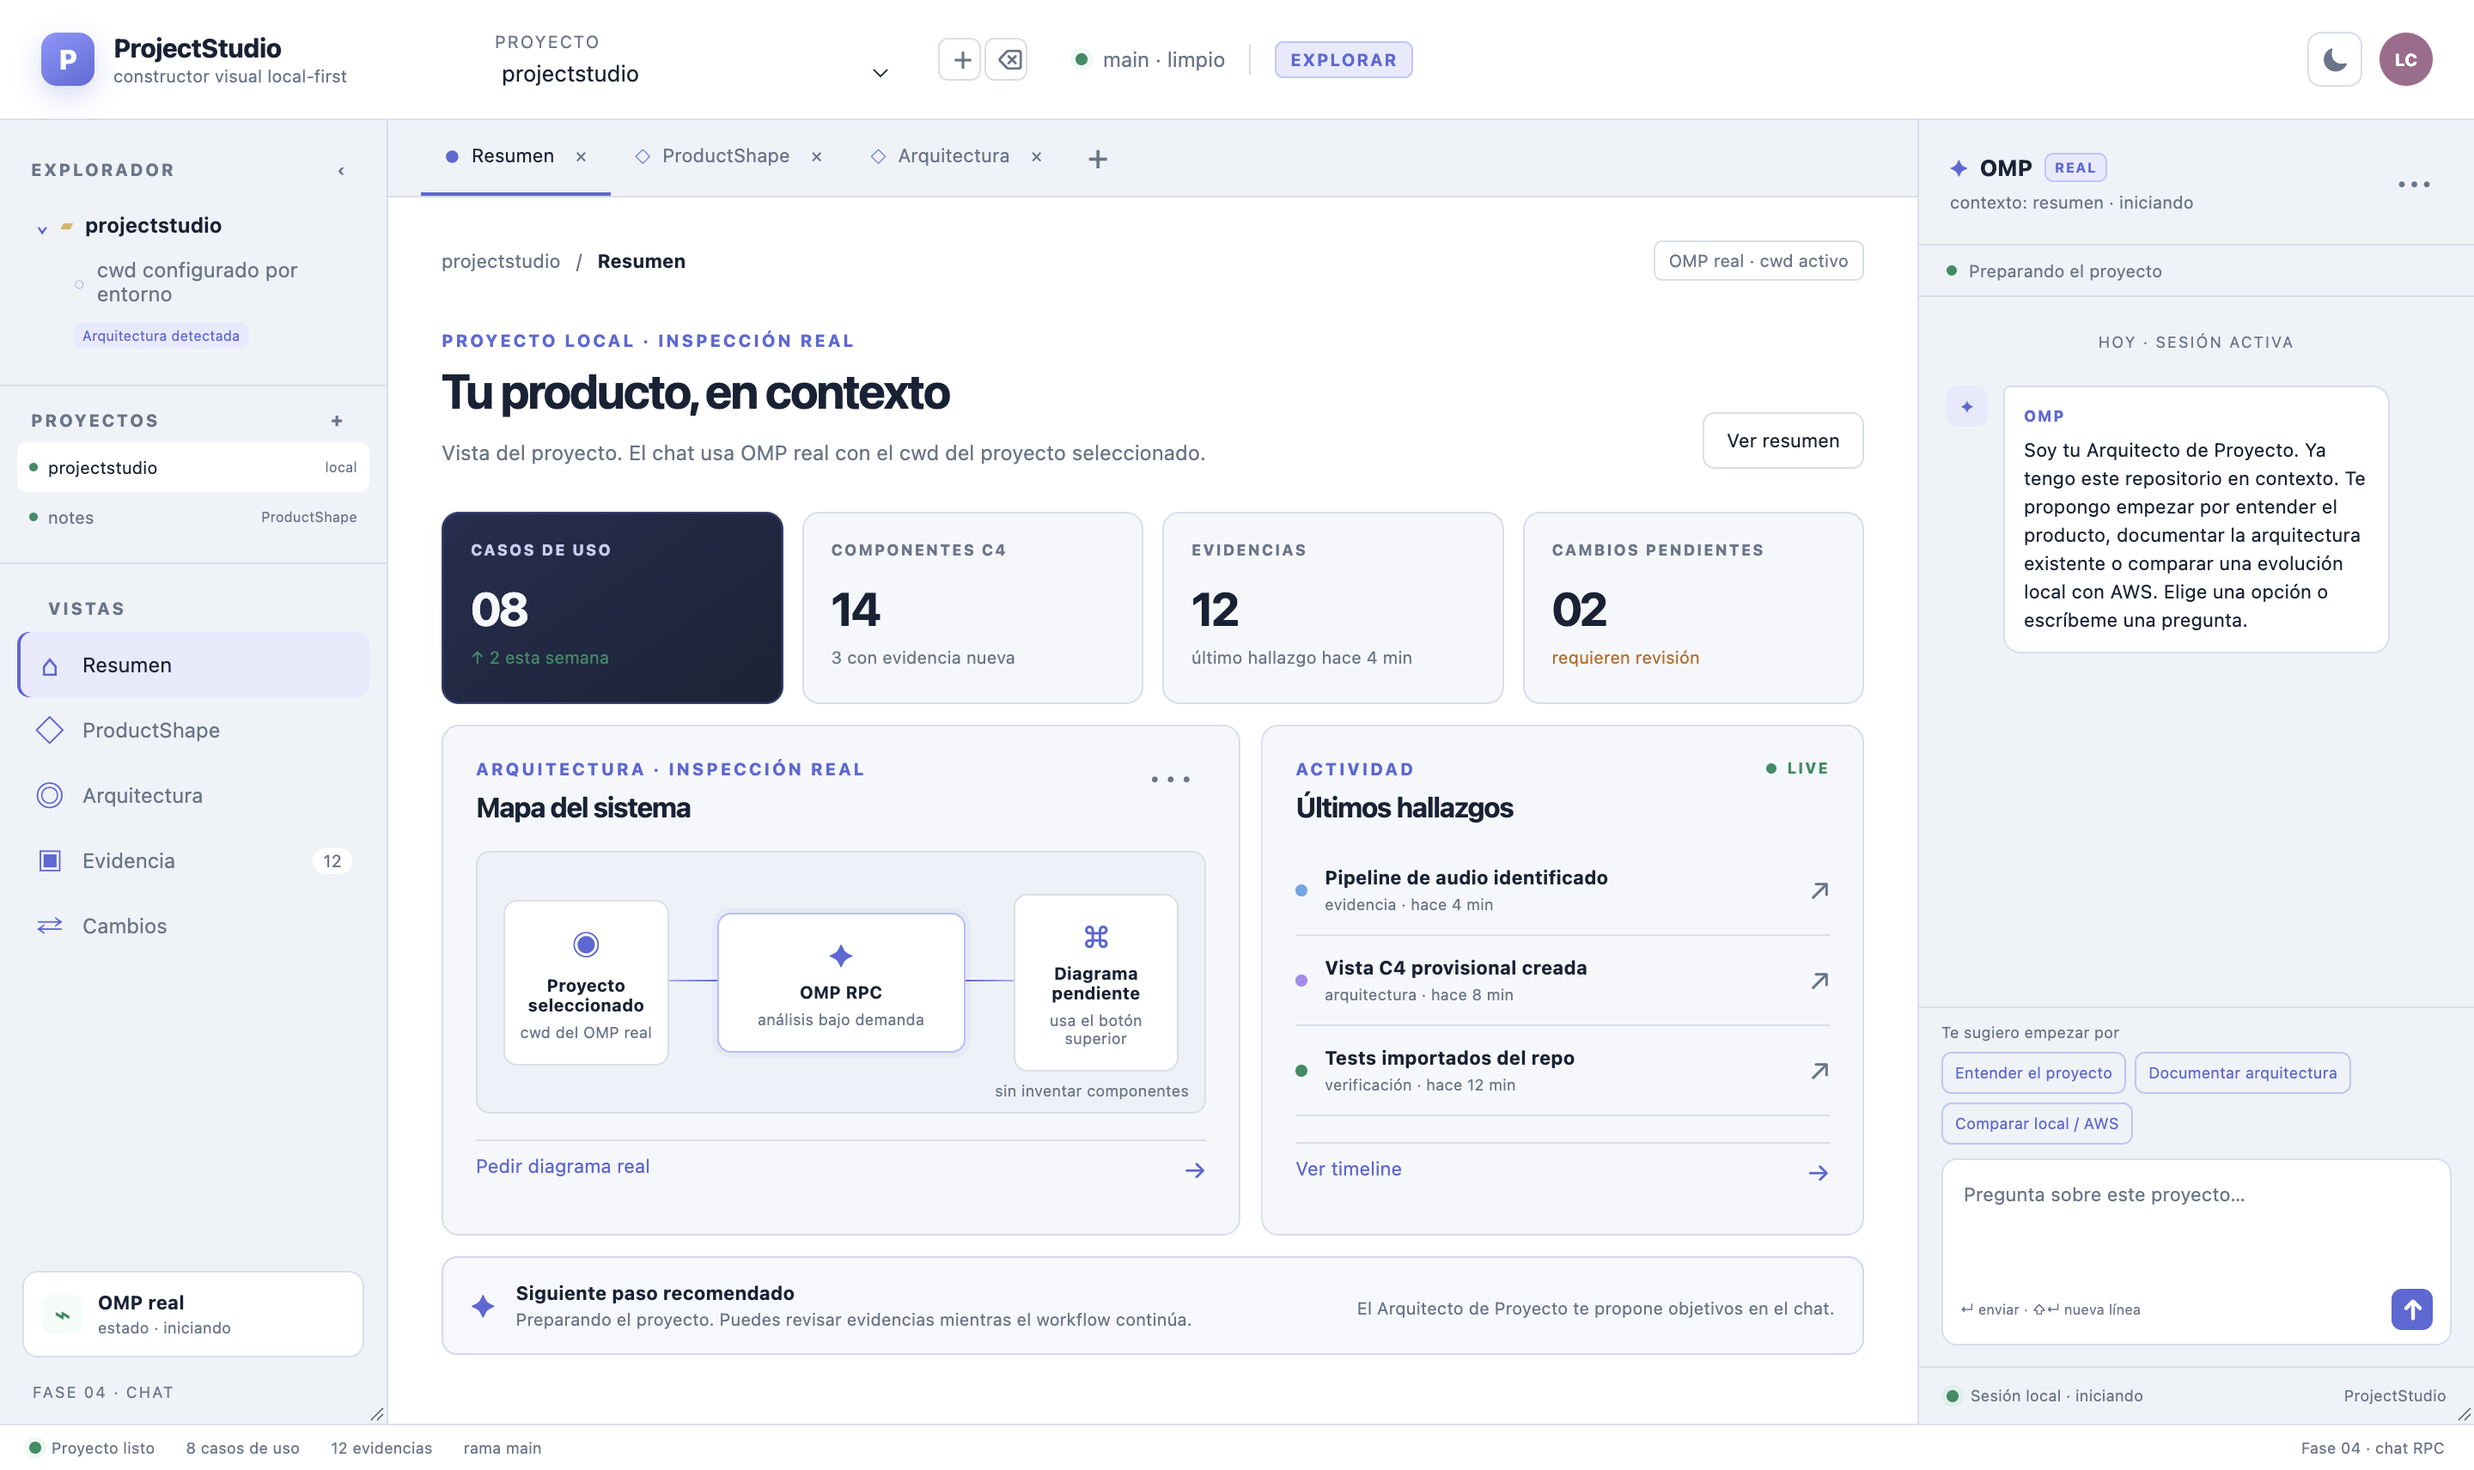
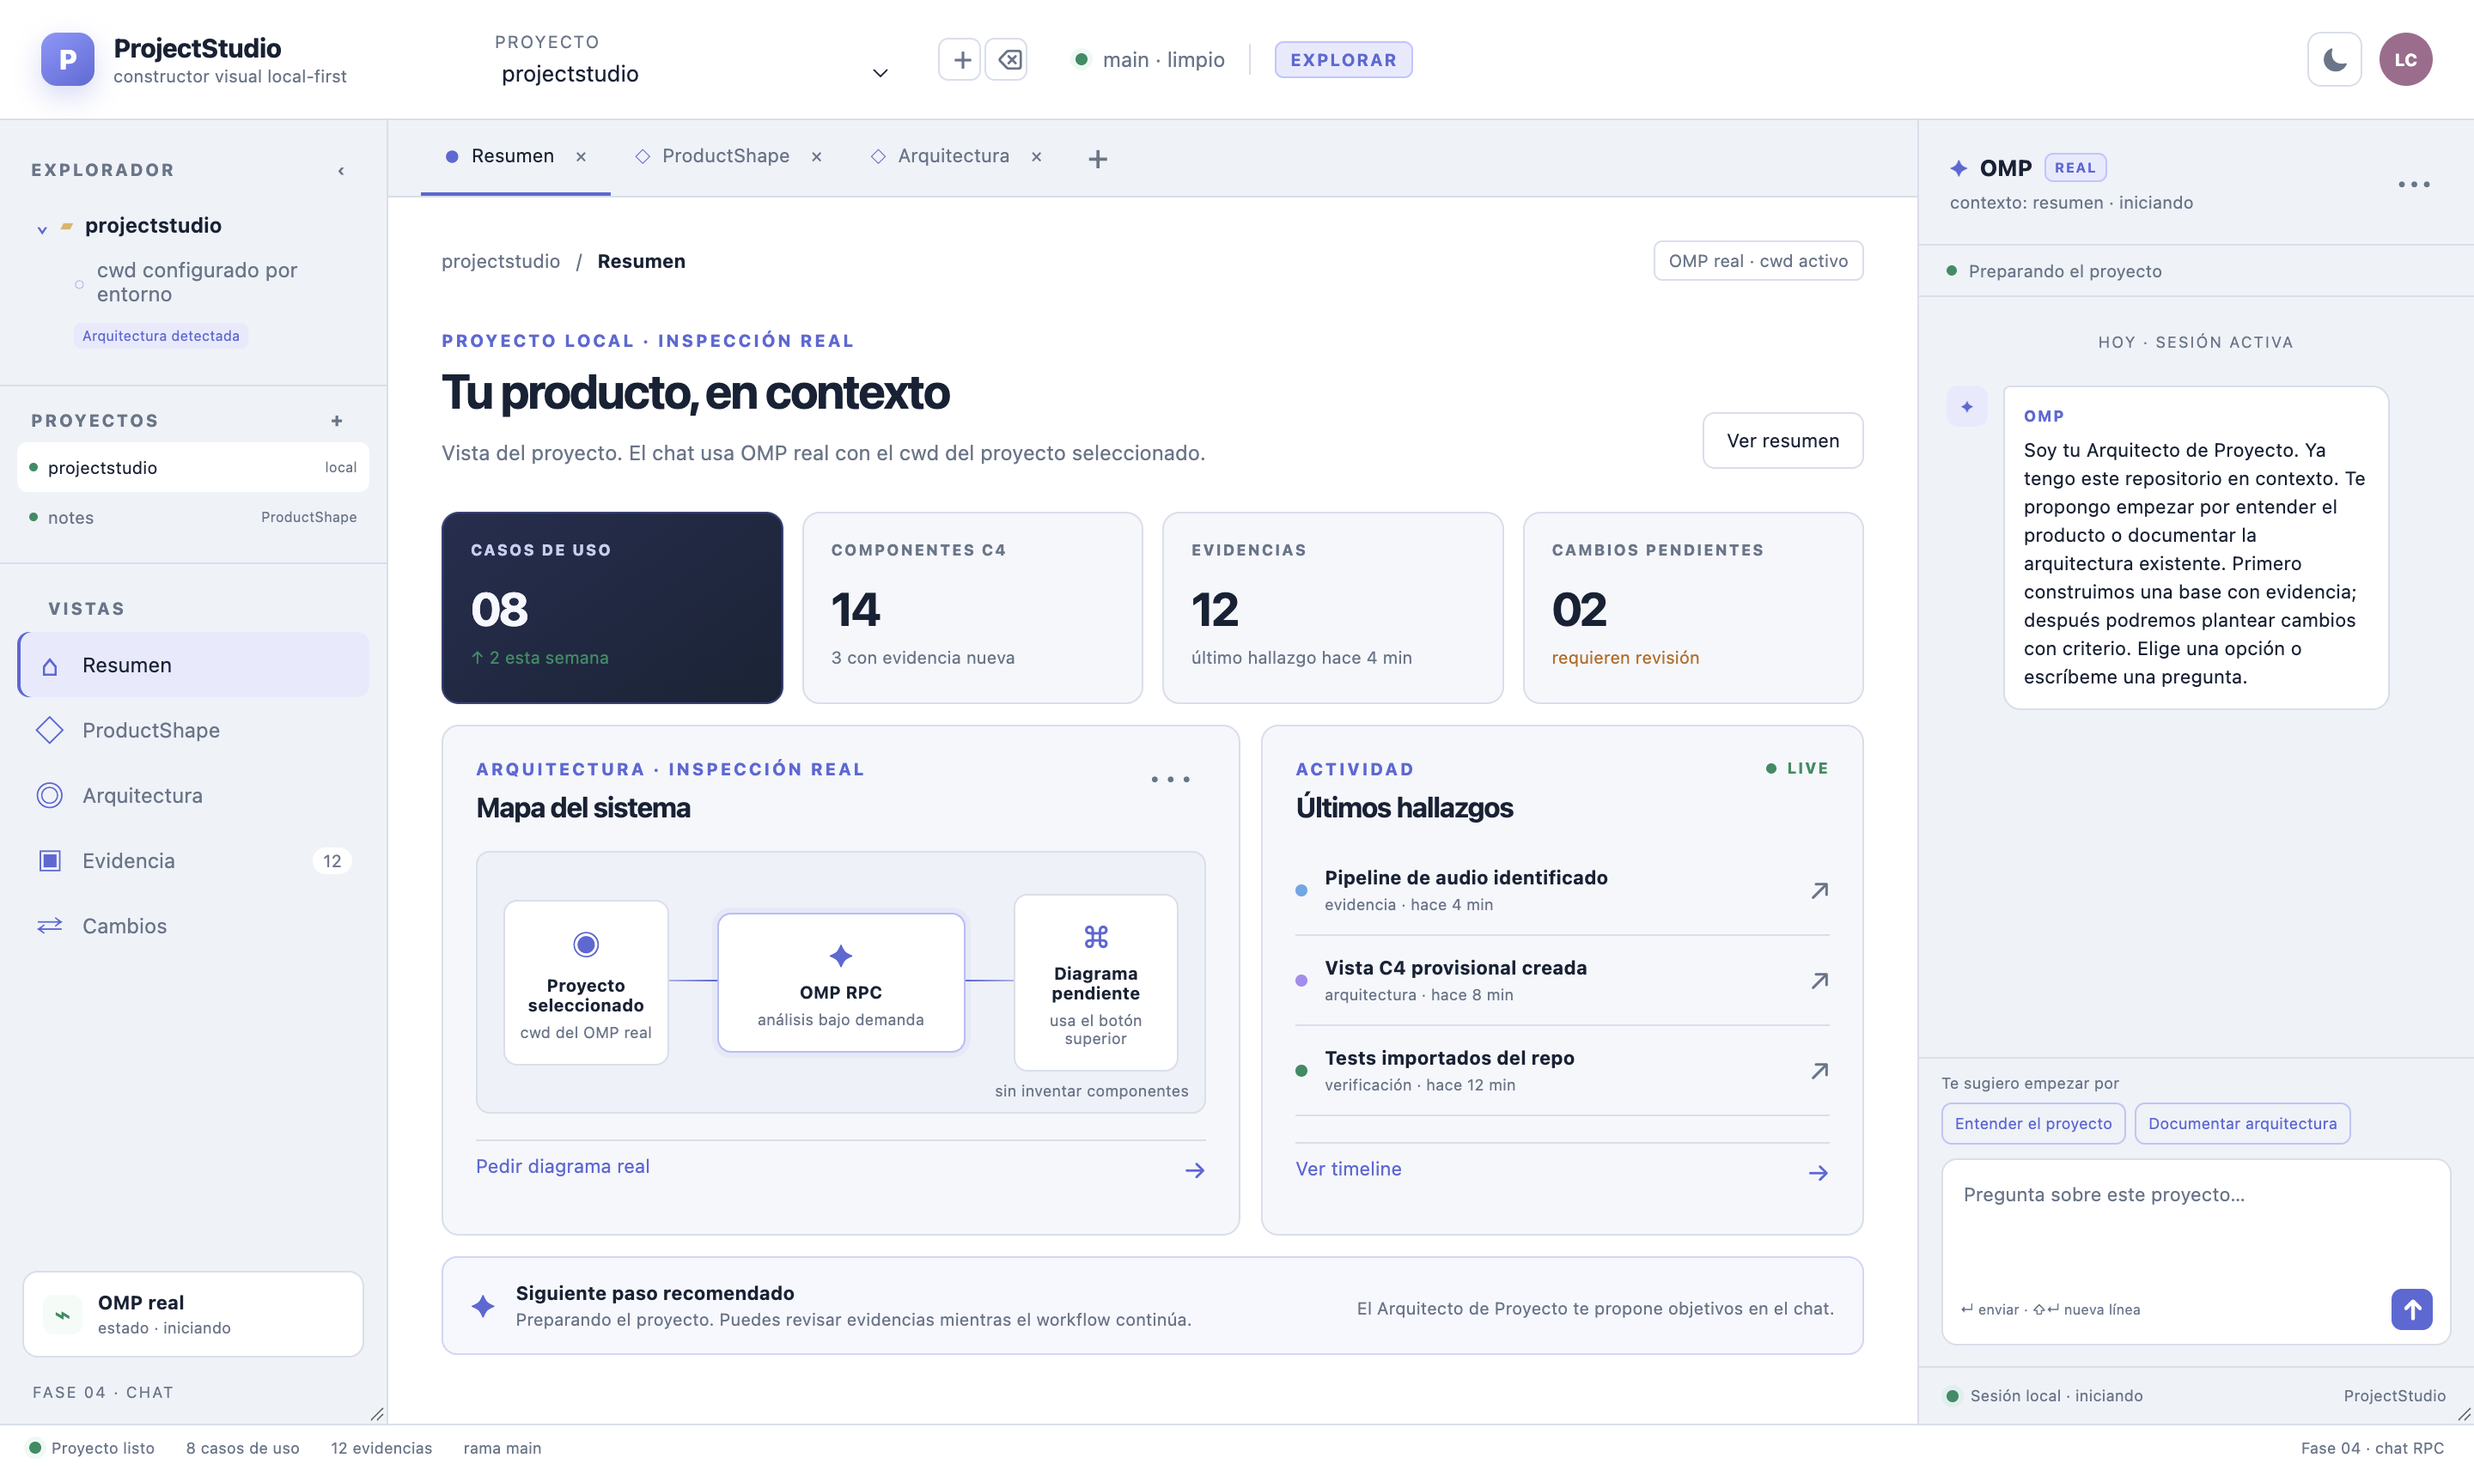
fix: queue chat objectives during discovery

Changed region(s): [[0.8125, 0.3405, 0.9688, 0.4644], [0.7812, 0.712, 0.9375, 0.7739]]

diff --git a/apps/desktop/src/renderer/main.tsx b/apps/desktop/src/renderer/main.tsx
@@ -14,7 +14,7 @@ const navigation: Array<{ section: Section; icon: string; detail: string }> = [
 ];
 
 const initialMessages: Message[] = [
-  { author: "omp", text: "Soy tu Arquitecto de Proyecto. Ya tengo este repositorio en contexto. Te propongo empezar por entender el producto, documentar la arquitectura existente o comparar una evolución local con AWS. Elige una opción o escríbeme una pregunta." },
+  { author: "omp", text: "Soy tu Arquitecto de Proyecto. Ya tengo este repositorio en contexto. Te propongo empezar por entender el producto o documentar la arquitectura existente. Primero construimos una base con evidencia; después podremos plantear cambios con criterio. Elige una opción o escríbeme una pregunta." },
 ];
 
 function reviewPrompt(section: Section): string {
@@ -100,6 +100,7 @@ function App(): JSX.Element {
   const [bootstrapFailed, setBootstrapFailed] = useState(false);
   const streamingDraft = useRef("");
   const [sending, setSending] = useState(false);
+  const queuedObjective = useRef<{ prompt: string; workflow: "brownfield-discovery" | "architecture-documentation" | "architecture-planning" } | null>(null);
 
   async function reloadProjectSurface(): Promise<void> {
     setChatError("");
@@ -155,6 +156,11 @@ function App(): JSX.Element {
         setChatStatus("settled");
         setActivity("Listo para continuar");
         setSending(false);
+        const nextObjective = queuedObjective.current;
+        if (nextObjective) {
+          queuedObjective.current = null;
+          window.setTimeout(() => void sendMessage(nextObjective.prompt, nextObjective.workflow), 0);
+        }
       } else if (event.type === "warning" || event.type === "error") {
         setChatError(event.message);
         setActivity("No se pudo completar la tarea");
@@ -214,6 +220,14 @@ function App(): JSX.Element {
       setChatStatus("failed");
       setActivity("No se pudo iniciar la tarea");
     }
+  }
+  function chooseObjective(prompt: string, workflow: "brownfield-discovery" | "architecture-documentation"): void {
+    if (sending) {
+      queuedObjective.current = { prompt, workflow };
+      setActivity("Objetivo preparado; comenzará cuando termine el análisis actual…");
+      return;
+    }
+    void sendMessage(prompt, workflow);
   }
   async function openProject(): Promise<void> {
     const result = await window.studio.projects.open();
@@ -392,9 +406,8 @@ function App(): JSX.Element {
           <div className="chat-suggestions" aria-label="Objetivos sugeridos">
             <div className="chat-suggestions-label">Te sugiero empezar por</div>
             <div className="chat-suggestions-grid">
-              <button onClick={() => void sendMessage("Analiza este proyecto como brownfield: empieza por docs/product y después contrasta con el código. Devuelve hechos, inferencias, incógnitas y un diagrama confirmado.", "brownfield-discovery")} disabled={sending}>Entender el proyecto</button>
-              <button onClick={() => void sendMessage("Documenta la arquitectura existente a partir de ProductShape, src/ y tests.", "architecture-documentation")} disabled={sending}>Documentar arquitectura</button>
-              <button onClick={() => void sendMessage("Propón una variante local y otra AWS para este producto, con trade-offs y riesgos.", "architecture-planning")} disabled={sending}>Comparar local / AWS</button>
+              <button onClick={() => chooseObjective("Analiza este proyecto como brownfield: empieza por docs/product y después contrasta con el código. Devuelve hechos, inferencias, incógnitas y un diagrama confirmado.", "brownfield-discovery")}>Entender el proyecto</button>
+              <button onClick={() => chooseObjective("Documenta la arquitectura existente a partir de ProductShape, src/ y tests.", "architecture-documentation")}>Documentar arquitectura</button>
             </div>
           </div>
           {chatError && <div className="chat-error" role="alert">{chatError}</div>}

diff --git a/tests/e2e/desktop-smoke.ts b/tests/e2e/desktop-smoke.ts
@@ -29,10 +29,10 @@ try {
   await window.getByTitle("C4 y escenarios").click();
   await window.getByRole("heading", { name: "Arquitectura" }).waitFor();
   const initialAssistantMessages = await window.locator(".message-row.omp").count();
-  await window.getByLabel("Mensaje para OMP").fill("Confirma brevemente que el proyecto está disponible y no uses herramientas.");
-  await window.getByRole("button", { name: "Enviar mensaje" }).click();
+  await window.getByRole("button", { name: "Entender el proyecto" }).click();
+  if (await window.locator(".message-row.user").count() < 1) throw new Error("objective click did not create a user command");
   try {
-    await window.waitForFunction((count) => document.querySelectorAll(".message-row.omp").length > count, initialAssistantMessages, { timeout: 30_000 });
+    await window.waitForFunction((count) => document.querySelectorAll(".message-row.omp").length > count, initialAssistantMessages, { timeout: 120_000 });
   } catch (error) {
     throw new Error(`No final assistant message: ${JSON.stringify({ error: String(error), activity: await window.locator(".chat-activity").innerText(), chatError: await window.locator(".chat-error").innerText().catch(() => ""), messages: await window.locator(".message-row").allInnerTexts() })}`);
   }

diff --git a/README.md b/README.md
@@ -88,7 +88,7 @@ Los artefactos del proyecto analizado no se borran ni se escriben durante esta g
 10. Comprueba progreso resumido, respuesta final del workflow y estado `settled`.
 11. Cambia entre tema oscuro y claro; arrastra los bordes del explorador y chat.
 12. Si OMP devuelve Mermaid, comprueba el mapa visual en chat y canvas central.
-13. En el chat inicial confirma que aparece la personalidad `Arquitecto de Proyecto` y los objetivos `Entender el proyecto`, `Documentar arquitectura` y `Comparar local / AWS`.
+13. En el chat inicial confirma que aparece la personalidad `Arquitecto de Proyecto` y los objetivos `Entender el proyecto` y `Documentar arquitectura`.
 14. Pulsa uno de esos objetivos o escribe una pregunta nueva en el composer visible del panel derecho.
 ## Cómo se ejecutan las peticiones
 
